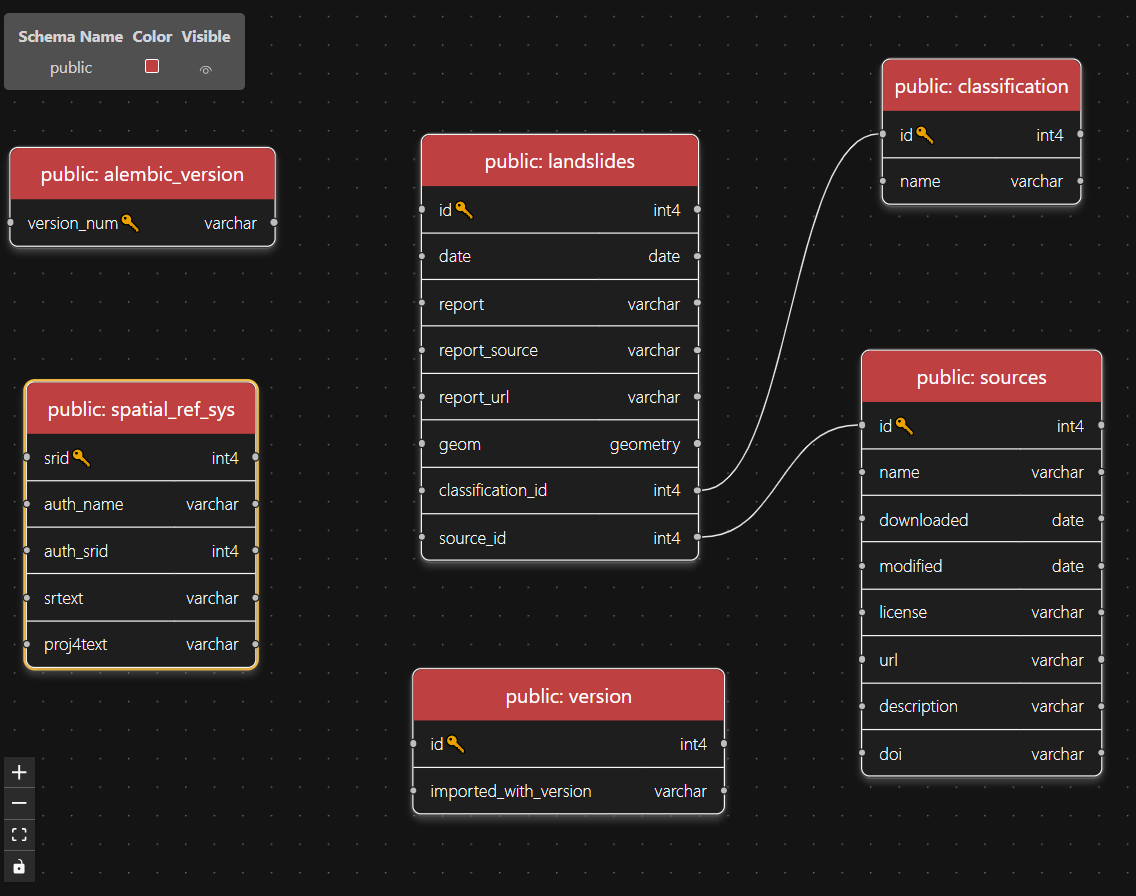
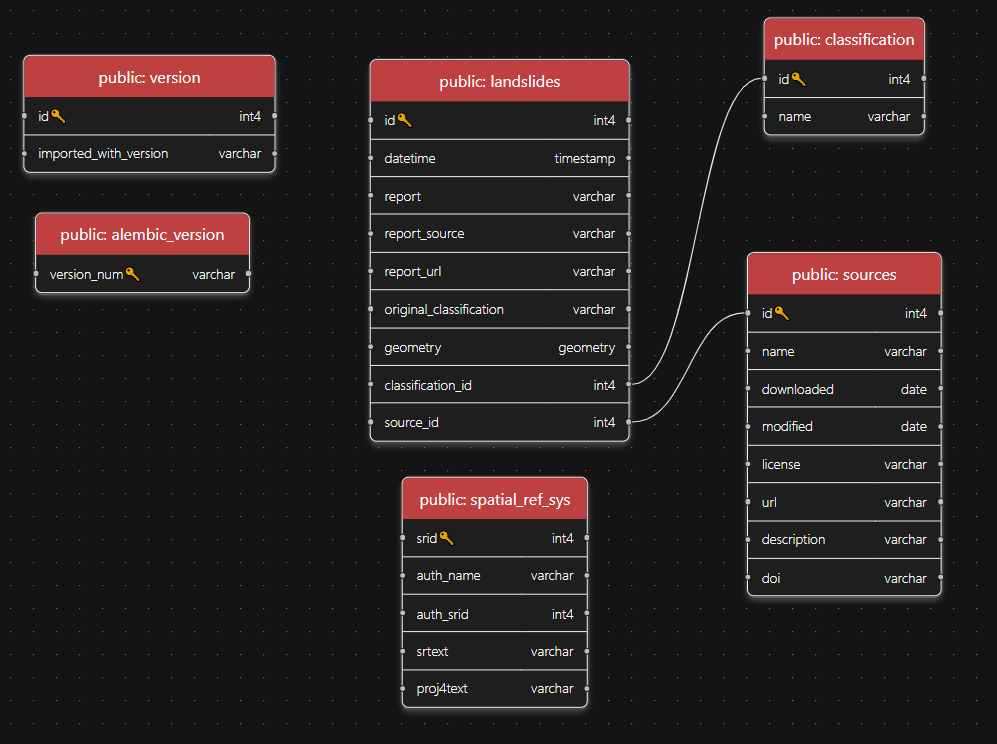
docs: update new schema changes

diff --git a/docs/intro/schema.md b/docs/intro/schema.md
@@ -12,16 +12,9 @@ To work with the data base, it helps to understand its public schema. The
     src="/schema.png" alt="Landslides View in the API preview"
     loading="lazy" width="100%" style="border-radius: 10px;"
   >
-  <figcaption>
-    The data base schema.
-  </figcaption>
 </figure>
 
-Each table is described in detail below.
-
 ## Table Description
-
-Let's break down each table and have a closer look.
 
 | Table             | Description                                                                                    |
 |-------------------|------------------------------------------------------------------------------------------------|
@@ -62,14 +55,14 @@ linked to an SRID. The spatial_ref_sys table is used to interpret that SRID.
 ### landslides
 
 The landslides table contains the mass movement events, including a event date
-(`date`) and point geometry (`geom`). All records are linked to source and 
-classification via the `source_id` and `classification_id` respectively. Find 
-the first two records below:
+with time (`datetime`) and point geometry (`geom`). All records are linked to
+source and classification via the `source_id` and `classification_id`
+respectively. Find the first two records below:
 
-| id | date       | geom              | source_id | report | report_source | report_url | classification_id |
-|----|------------|-------------------|-----------|--------|---------------|------------|-------------------|
-| 1  | 2024-11-01 | 0101000020787F... | 1         | NULL   | NULL          | NULL       | 1                 |
-| 2  | 2024-10-22 | 0101000020787F... | 1         | NULL   | NULL          | NULL       | 1                 |
+| id | datetime            | report | report_source | report_url | original_classification | geometry      | classification_id | source_id |
+|----|---------------------|--------|---------------|------------|-------------------------|---------------|-------------------|-----------|
+| 1  | 2024-11-01 00:00:00 | NULL   | NULL          | NULL       | rockfall                | 0101000020... | 5                 | 1         |
+| 2  | 2024-10-22 00:00:00 | NULL   | NULL          | NULL       | rockfall                | 0101000020... | 5                 | 1         |
 
 ::: details
 
@@ -88,16 +81,16 @@ LIMIT 2;
 Some fields are nullable whereas other must always be present, see below table
 for an overview.
 
-| Field             | Nullable | Description                                          |
-|-------------------|----------|------------------------------------------------------|
-| date              | No       | Event date (assumed Austrian local time, CET/CEST;   |
-|                   |          | no timezone conversion applied)                      |
-| geom              | No       | Point geometry in **EPSG:32632**                     |
-| source_id         | No       | Foreign key to the `sources` table                   |
-| report            | Yes      | Optional report describing the event                 |
-| report_source     | Yes      | Optional name of the report source                   |
-| report_url        | Yes      | Optional URL linking to the original report/resource |
-| classification_id | No       | Foreign key to the `classification` table            |
+| Field                   | Nullable | Description                                                                           |
+|-------------------------|----------|---------------------------------------------------------------------------------------|
+| datetime                | No       | Event datetime (assumed Austrian local time, CET/CEST;no timezone conversion applied) |
+| report                  | Yes      | Optional report describing the event                                                  |
+| report_source           | Yes      | Optional name of the report source                                                    |
+| report_url              | Yes      | Optional URL linking to the original report/resource                                  |
+| original_classification | No       | Original classification provided by the source                                        |
+| geometry                | No       | Point geometry in **EPSG:32632**                                                      |
+| classification_id       | No       | Foreign key to the `classification` table                                             |
+| source_id               | No       | Foreign key to the `sources` table                                                    |
 
 ::: info
 
@@ -105,24 +98,24 @@ Geometries are all in [EPSG:32632](https://epsg.io/32632)!
 
 :::
 
-In short, `date`, `geom` and `source_id` and `classification_id` are always
-present.
+In short, `datetime`, `geometry`, `original_classification`, `source_id` and 
+`classification_id` are always present.
 
 ::: info
 
-By default, the point geometry `geom` is returned as hex-encoded binary.
+By default, the point geometry `geometry` is returned as hex-encoded binary.
 To get the geometry as string, use the `ST_AsText` function. For example:
 
 ```sql
-SELECT id, date, ST_AsText(geom) AS wkt
+SELECT id, datetime, ST_AsText(geometry) AS wkt
 FROM public.landslides
 LIMIT 2;
 ```
 
-| id | date       | wkt                                 |
-|----|------------|-------------------------------------|
-| 1  | 2024-11-01 | POINT(748676.21304 5272749.179051)  |
-| 2  | 2024-10-22 | POINT(641802.697946 5196727.447737) |
+| id | datetime            | wkt                                 |
+|----|---------------------|-------------------------------------|
+| 1  | 2024-11-01 00:00:00 | POINT(748676.21304 5272749.179051)  |
+| 2  | 2024-10-22 00:00:00 | POINT(641802.697946 5196727.447737) |
 
 :::
 
@@ -131,15 +124,15 @@ LIMIT 2;
 With the `ST_AsEWKT` function, the SRID can be included as well.
 
 ```sql
-SELECT id, ST_AsEWKT(geom) AS ewkt
+SELECT id, ST_AsEWKT(geometry) AS ewkt
 FROM public.landslides
 LIMIT 2;
 ```
 
-| id | date       | wkt                                            |
-|----|------------|------------------------------------------------|
-| 1  | 2024-11-01 | SRID=32632;POINT(748676.21304 5272749.179051)  |
-| 2  | 2024-10-22 | SRID=32632;POINT(641802.697946 5196727.447737) |
+| id | wkt                                            |
+|----|------------------------------------------------|
+| 1  | SRID=32632;POINT(748676.21304 5272749.179051)  |
+| 2  | SRID=32632;POINT(641802.697946 5196727.447737) |
 
 :::
 
@@ -148,17 +141,17 @@ LIMIT 2;
 This table stores the classification labels referenced by the `landslides`
 table (via `classification_id`). The available values are listed below:
 
-| name                                      |
-|-------------------------------------------|
-| rockfall                                  |
-| collapse, sinkhole                        |
-| mass movement (undefined type)            |
-| gravity slide or flow                     |
-| deep seated rock slope deformation        |
+| name                               |
+|------------------------------------|
+| rockfall                           |
+| collapse, sinkhole                 |
+| mass movement (undefined type)     |
+| gravity slide or flow              |
+| deep seated rock slope deformation |
 
 Each record is classified into one of these categories. The categories itself
 were derived from the GeoSphere data set (see 
-[Data Sources](../index#data-sources) for more info).
+[Data Sources](../intro/about#data-sources) for more info).
 
 ::: details
 
